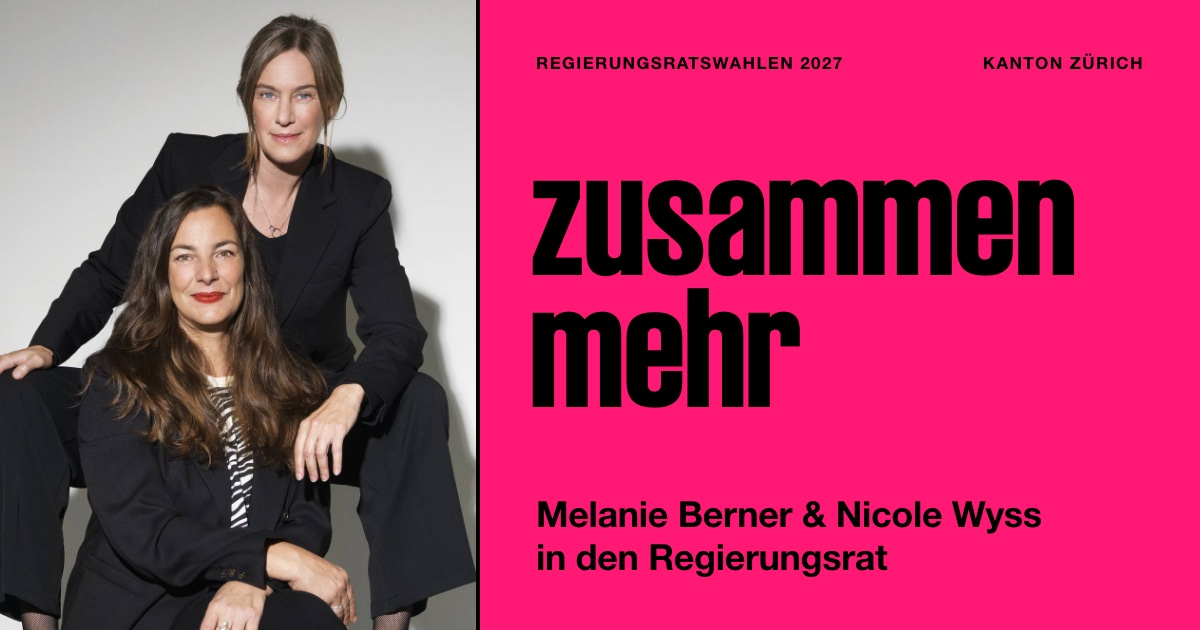
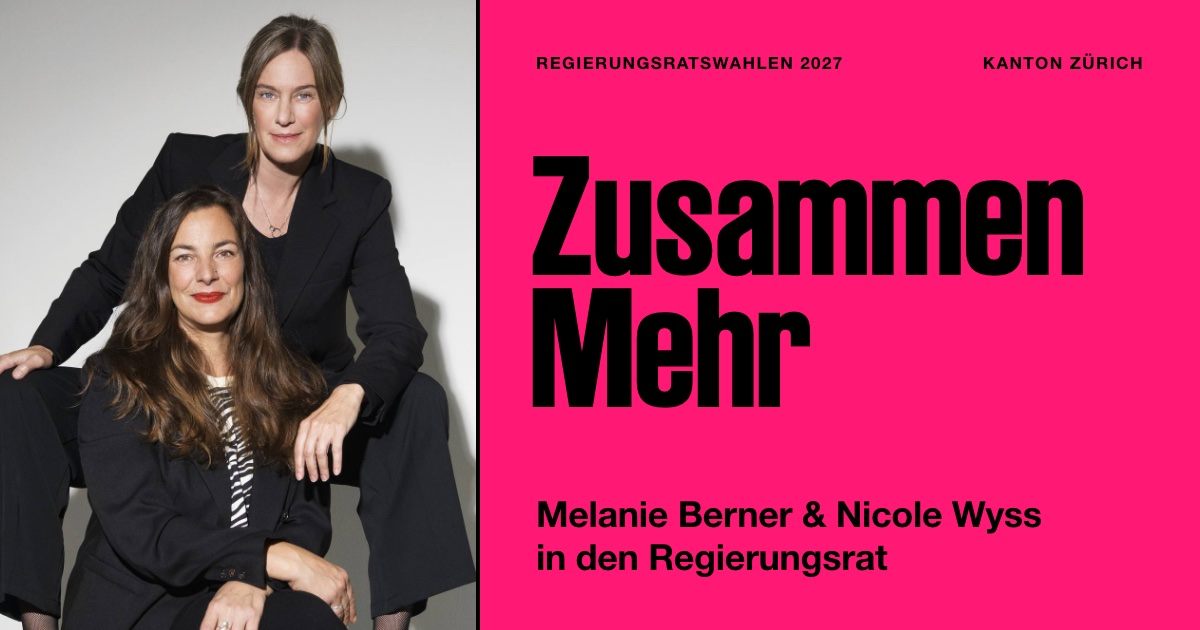
z und m

Changed region(s): [[0.4317, 0.2413, 0.925, 0.6635]]

diff --git a/frontend/index.html b/frontend/index.html
@@ -8,11 +8,11 @@
     <title>Melanie Berner und Nicole Wyss für den Regierungsrat Zürich 2027</title>
     <meta
       name="description"
-      content="zusammen mehr: Melanie Berner und Nicole Wyss (AL) kandidieren gemeinsam im Top-Sharing für den Regierungsrat Zürich 2027. Unterstütze die Kandidatur."
+      content="Zusammen Mehr: Melanie Berner und Nicole Wyss (AL) kandidieren gemeinsam im Top-Sharing für den Regierungsrat Zürich 2027. Unterstütze die Kandidatur."
     />
     <meta
       name="keywords"
-      content="zusammen mehr, Melanie Berner, Nicole Wyss, Berner Wyss, Regierungsratswahl Zürich 2027, Regierungsratswahlen 2027 Kanton Zürich, Zürcher Regierungsrat, Regierungsrat Kanton Zürich, Kandidierende Regierungsrat Zürich, Regierungsrat Kandidatinnen Zürich, Wahlen Zürich 2027, Top-Sharing, Jobsharing Regierungsrat, Alternative Linke, AL Zürich"
+      content="Zusammen Mehr, Melanie Berner, Nicole Wyss, Berner Wyss, Regierungsratswahl Zürich 2027, Regierungsratswahlen 2027 Kanton Zürich, Zürcher Regierungsrat, Regierungsrat Kanton Zürich, Kandidierende Regierungsrat Zürich, Regierungsrat Kandidatinnen Zürich, Wahlen Zürich 2027, Top-Sharing, Jobsharing Regierungsrat, Alternative Linke, AL Zürich"
     />
     <meta name="author" content="Berner &amp; Wyss 2027" />
     <meta name="robots" content="index, follow, max-image-preview:large" />
@@ -23,7 +23,7 @@
 
     <!-- Open Graph -->
     <meta property="og:type" content="website" />
-    <meta property="og:site_name" content="zusammen mehr" />
+    <meta property="og:site_name" content="Zusammen Mehr" />
     <meta
       property="og:title"
       content="Melanie Berner und Nicole Wyss für den Regierungsrat Zürich 2027"
@@ -38,7 +38,7 @@
     <meta property="og:image:height" content="630" />
     <meta
       property="og:image:alt"
-      content="zusammen mehr: Melanie Berner und Nicole Wyss in den Regierungsrat, Regierungsratswahlen 2027 Kanton Zürich"
+      content="Zusammen Mehr: Melanie Berner und Nicole Wyss in den Regierungsrat, Regierungsratswahlen 2027 Kanton Zürich"
     />
     <meta property="og:locale" content="de_CH" />
 
@@ -62,7 +62,7 @@
           {
             "@type": "WebSite",
             "@id": "__SITE_URL__/#website",
-            "name": "zusammen mehr",
+            "name": "Zusammen Mehr",
             "alternateName": [
               "Berner & Wyss 2027",
               "Melanie Berner & Nicole Wyss: Regierungsratswahl Zürich 2027"
@@ -104,8 +104,8 @@
           {
             "@type": "Organization",
             "@id": "__SITE_URL__/#kampagne",
-            "name": "zusammen mehr: Berner & Wyss 2027",
-            "alternateName": ["zusammen mehr", "Berner & Wyss 2027"],
+            "name": "Zusammen Mehr: Berner & Wyss 2027",
+            "alternateName": ["Zusammen Mehr", "Berner & Wyss 2027"],
             "description": "Gemeinsame Kandidatur von Melanie Berner und Nicole Wyss (AL) im Top-Sharing für den Regierungsrat des Kantons Zürich, Regierungsratswahlen 2027. Unterstützt von SP und Grünen Kanton Zürich.",
             "url": "__SITE_URL__/",
             "logo": "__SITE_URL__/apple-touch-icon.png",
@@ -190,7 +190,7 @@
     <div id="root" data-static>
       <header>
         <p>Regierungsratswahlen 2027, Kanton Zürich</p>
-        <h1>zusammen mehr: Melanie Berner und Nicole Wyss in den Regierungsrat</h1>
+        <h1>Zusammen Mehr: Melanie Berner und Nicole Wyss in den Regierungsrat</h1>
         <img
           src="/melanie-berner-nicole-wyss-4x3.jpg"
           alt="Melanie Berner und Nicole Wyss, Kandidatinnen für den Regierungsrat Zürich 2027"
@@ -202,7 +202,7 @@
         <section>
           <h2>Top-Sharing: Melanie Berner und Nicole Wyss kandidieren gemeinsam für den Zürcher Regierungsrat</h2>
           <p>
-            Wir sind überzeugt, dass zusammen mehr und bessere Ergebnisse erzielt werden können.
+            Wir sind überzeugt, dass Zusammen Mehr und bessere Ergebnisse erzielt werden können.
             Darum kandidieren wir bei den Regierungsratswahlen 2027 gemeinsam für den Regierungsrat
             des Kantons Zürich. Keine klassische Zweierkandidatur, eine gegen die andere, sondern
             als Team mit vereinten Kräften.
@@ -217,7 +217,7 @@
             Zwei unterschiedliche Perspektiven, Erfahrungen und Kompetenzen fliessen in die
             Regierungsarbeit ein. Das verbessert die Qualität von Entscheidungen und erhöht die
             Kontinuität in der Amtsführung. Das Vier-Augen-Prinzip stärkt Transparenz und Qualität.
-            Zusammen mehr eben.
+            Zusammen Mehr eben.
           </p>
           <p>Nicole Wyss, Kantonsrätin AL. Melanie Berner, Alt-Kantonsrätin AL.</p>
         </section>
@@ -291,7 +291,7 @@
         </section>
       </main>
       <footer>
-        <a href="https://www.instagram.com/topsharing2027/">zusammen mehr auf Instagram</a>
+        <a href="https://www.instagram.com/topsharing2027/">Zusammen Mehr auf Instagram</a>
         <a href="/datenschutz">Datenschutz</a>
         <a href="/impressum">Impressum</a>
       </footer>

diff --git a/frontend/src/components/TeamSection.tsx b/frontend/src/components/TeamSection.tsx
@@ -28,7 +28,7 @@ export function TeamSection() {
             </VisuallyHidden>
           </Display>
           <Text>
-            Wir sind überzeugt, dass zusammen mehr und bessere Ergebnisse erzielt werden können.
+            Wir sind überzeugt, dass Zusammen Mehr und bessere Ergebnisse erzielt werden können.
             Darum kandidieren wir bei den Regierungsratswahlen 2027 gemeinsam für den Regierungsrat
             des Kantons Zürich. Keine klassische Zweierkandidatur, eine gegen die andere, sondern
             als Team mit vereinten Kräften.
@@ -44,7 +44,7 @@ export function TeamSection() {
             Regierungsarbeit ein. Das verbessert die Qualität von Entscheidungen und erhöht die
             Kontinuität in der Amtsführung. Studien zeigen, dass Führungs-Tandems oft effizienter
             und fokussierter arbeiten. Das Vier-Augen-Prinzip stärkt Transparenz und Qualität.
-            Zusammen mehr eben.
+            Zusammen Mehr eben.
           </Text>
           <Names>
             Nicole Wyss, Kantonsrätin AL

diff --git a/frontend/src/components/HeroSection.tsx b/frontend/src/components/HeroSection.tsx
@@ -19,7 +19,7 @@ export function HeroSection() {
       <Content>
         <Title id="titel">
           <Slogan>
-            <Bar>zusammen</Bar> <Bar>mehr</Bar>
+            <Bar>Zusammen</Bar> <Bar>Mehr</Bar>
           </Slogan>
           <VisuallyHidden>: </VisuallyHidden>
           <Claim>Melanie Berner und Nicole Wyss in den Regierungsrat</Claim>
@@ -30,7 +30,7 @@ export function HeroSection() {
             href="https://www.instagram.com/topsharing2027/"
             target="_blank"
             rel="noopener noreferrer"
-            aria-label="zusammen mehr auf Instagram (öffnet in neuem Tab)"
+            aria-label="Zusammen Mehr auf Instagram (öffnet in neuem Tab)"
           >
             <IconInstagram width="32" height="32" />
           </InstagramLink>

diff --git a/frontend/src/components/HeroSection.styled.ts b/frontend/src/components/HeroSection.styled.ts
@@ -81,7 +81,7 @@ export const Title = styled.h1`
   font-size: inherit;
 `
 
-/** «zusammen» ist rund 3.75em breit: 24cqi lässt mobil Platz für die Balken-Innenabstände. */
+/** «Zusammen» ist rund 3.7em breit: 24cqi lässt mobil Platz für die Balken-Innenabstände. */
 export const Slogan = styled.span`
   display: flex;
   flex-direction: column;
@@ -92,7 +92,6 @@ export const Slogan = styled.span`
   font-size: clamp(2.5rem, min(10svh, 24cqi), 8rem);
   line-height: 1;
   letter-spacing: 0.025em;
-  text-transform: lowercase;
 
   ${media.hero} {
     gap: 0;

diff --git a/frontend/src/routes/HomePage.tsx b/frontend/src/routes/HomePage.tsx
@@ -12,7 +12,7 @@ import { ArticlesSection } from '../components/ArticlesSection'
 export function HomePage() {
   usePageMeta(
     'Melanie Berner und Nicole Wyss für den Regierungsrat Zürich 2027',
-    'zusammen mehr: Melanie Berner und Nicole Wyss (AL) kandidieren gemeinsam im Top-Sharing für den Regierungsrat Zürich 2027. Unterstütze die Kandidatur.',
+    'Zusammen Mehr: Melanie Berner und Nicole Wyss (AL) kandidieren gemeinsam im Top-Sharing für den Regierungsrat Zürich 2027. Unterstütze die Kandidatur.',
   )
   useScrollToHash()
   useReveal()

diff --git a/frontend/src/components/SiteNav.tsx b/frontend/src/components/SiteNav.tsx
@@ -45,7 +45,7 @@ export function SiteNav() {
   return (
     <NavBar ref={barRef}>
       <Brand href="/#top" onClick={() => setOpen(false)}>
-        zusammen mehr
+        Zusammen Mehr
       </Brand>
       <MenuToggle
         ref={toggleRef}

diff --git a/docs/SEO.md b/docs/SEO.md
@@ -8,7 +8,7 @@ Priorität von oben nach unten. Jedes Keyword muss natürlich im Fliesstext vork
 
 | Keyword | Wo verwenden |
 |---|---|
-| zusammen mehr | Kampagnenname und Domain. Title, H1 (Slogan), `og:site_name`, JSON-LD (`WebSite.name`) |
+| Zusammen Mehr | Kampagnenname und Domain. Title, H1 (Slogan), `og:site_name`, JSON-LD (`WebSite.name`) |
 | Regierungsratswahl Zürich 2027 | Titel, Eckenmetadaten (Hero), erster Absatz |
 | Kandidierende Regierungsrat | H1 (Claim „in den Regierungsrat"), Meta-Description |
 | Melanie Berner | Title, H1, JSON-LD `Person`. Überall, wo sie erwähnt wird (voller Name, nicht nur „Melanie") |
@@ -31,7 +31,7 @@ Namen und Jahr (2027) immer zusammen mit „Regierungsrat" oder „Regierungsrat
 
 | Seite | Title | Description (max. 155 Zeichen) |
 |---|---|---|
-| Startseite | `Melanie Berner und Nicole Wyss für den Regierungsrat Zürich 2027` | `zusammen mehr: Melanie Berner und Nicole Wyss (AL) kandidieren gemeinsam im Top-Sharing für den Regierungsrat Zürich 2027. Unterstütze die Kandidatur.` |
+| Startseite | `Melanie Berner und Nicole Wyss für den Regierungsrat Zürich 2027` | `Zusammen Mehr: Melanie Berner und Nicole Wyss (AL) kandidieren gemeinsam im Top-Sharing für den Regierungsrat Zürich 2027. Unterstütze die Kandidatur.` |
 | Datenschutz | `Datenschutzerklärung: Berner & Wyss 2027` | `Datenschutzerklärung zur Kandidatur von Melanie Berner und Nicole Wyss für den Regierungsrat Zürich 2027.` |
 | Impressum | `Impressum: Berner & Wyss 2027` | `Impressum der Kandidatur von Melanie Berner und Nicole Wyss für die Regierungsratswahl Zürich 2027.` |
 
@@ -40,7 +40,7 @@ Namen und Jahr (2027) immer zusammen mit „Regierungsrat" oder „Regierungsrat
 ```html
 <html lang="de-CH">
 <title>Melanie Berner und Nicole Wyss für den Regierungsrat Zürich 2027</title>
-<meta name="description" content="zusammen mehr: Melanie Berner und Nicole Wyss (AL) kandidieren gemeinsam im Top-Sharing für den Regierungsrat Zürich 2027. Unterstütze die Kandidatur." />
+<meta name="description" content="Zusammen Mehr: Melanie Berner und Nicole Wyss (AL) kandidieren gemeinsam im Top-Sharing für den Regierungsrat Zürich 2027. Unterstütze die Kandidatur." />
 <meta name="keywords" content="Regierungsratswahl Zürich 2027, Kandidierende Regierungsrat, Melanie Berner, Nicole Wyss, Regierungsrat Kandidatinnen Zürich" />
 <link rel="canonical" href="https://zusammen-mehr.ch/" />
 
@@ -64,7 +64,7 @@ Namen und Jahr (2027) immer zusammen mit „Regierungsrat" oder „Regierungsrat
 
 Ein `@graph` in `frontend/index.html`, verknüpft über `@id`:
 
-- `WebSite` mit `name: "zusammen mehr"` und `alternateName`. Damit kann Google den Kampagnennamen
+- `WebSite` mit `name: "Zusammen Mehr"` und `alternateName`. Damit kann Google den Kampagnennamen
   als Site-Namen im Suchergebnis anzeigen.
 - `Organization` (die Kampagne) mit `sameAs` auf Instagram und `member` auf beide Personen.
 - Je ein `Person` für Melanie Berner und Nicole Wyss mit `jobTitle` (Kantonsrätin bzw.

diff --git a/docs/DESIGN.md b/docs/DESIGN.md
@@ -44,7 +44,7 @@ Zwei Schnitte, klar getrennte Aufgaben. Kein Mischen innerhalb einer Ebene.
 
 | Familie | Rolle | Grössenbereich |
 |---|---|---|
-| **AL Ruder Plakat** | Nur der Hero-Slogan „zusammen mehr" (Display XL) | ab 40px |
+| **AL Ruder Plakat** | Nur der Hero-Slogan „Zusammen Mehr" (Display XL) | ab 40px |
 | **LL Unica77** | Alles andere: Sektionstitel (Display L, Bold), Menü, Fliesstext, Labels, UI | alle Grössen |
 | **LL Unica77 Mono** | Meta, Nummerierung, Code, Tabellenzahlen | optional |
 
@@ -76,11 +76,11 @@ Der Schnitt ist eine sehr schmale, schwere Plakatgrotesk und funktioniert nur gr
 }
 ```
 
-- **Kleinschreibung** bei Claims und Hauptzeilen. Versalanfang nur bei Eigennamen und Organisationsnamen.
+- **Kleinschreibung** bei Claims und Hauptzeilen. Versalanfang nur bei Eigennamen und Organisationsnamen. Der Kampagnenname „Zusammen Mehr" ist ein Eigenname und wird überall mit grossem Z und M geschrieben, auch im Hero-Slogan.
 - Zeilenabstand unter 1, die Zeilen sollen als Block stehen, nicht als Absatz.
 - Buchstabenabstand öffnen (`letter-spacing: 0.025em`), sonst verschmelzen die Buchstaben des schweren Schnitts. Wortabstand ebenfalls leicht öffnen.
 - Nie in Fliesstextlänge. Maximal 4 Wörter pro Zeile.
-- **Ausnahme Zentrierung:** Der Hero-Slogan „zusammen mehr" steht immer exakt mittig (`text-align: center`, `margin-left: 0`, `padding-left` in Höhe des `letter-spacing`, damit der Nachlauf nach dem letzten Buchstaben die Mitte nicht verschiebt). Alle anderen Displayzeilen und aller Fliesstext bleiben linksbündig.
+- **Ausnahme Zentrierung:** Der Hero-Slogan „Zusammen Mehr" steht immer exakt mittig (`text-align: center`, `margin-left: 0`, `padding-left` in Höhe des `letter-spacing`, damit der Nachlauf nach dem letzten Buchstaben die Mitte nicht verschiebt). Alle anderen Displayzeilen und aller Fliesstext bleiben linksbündig.
 - Eine Kontur-Variante (Outline) ist nicht im gelieferten Paket.
 
 ### Unica77: Text und UI
